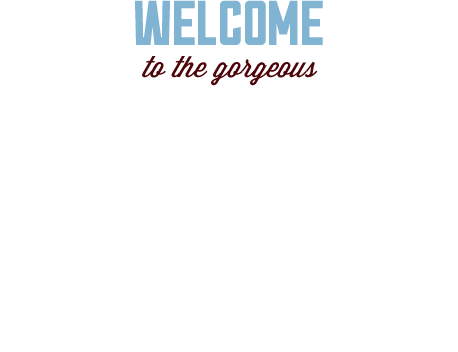
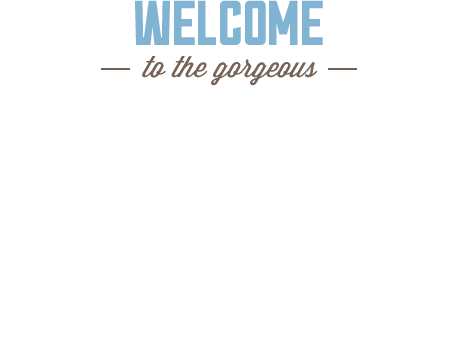
.welcom.css

Changed region(s): [[0.3057, 0.1562, 0.7642, 0.25], [0.214, 0.1875, 0.2751, 0.2188]]

diff --git a/css/style.css b/css/style.css
@@ -1,1 +1,139 @@
-font-family: 'PT Sans', sans-serif;
+body {
+  min-width: 768px;
+  max-width: 1200px;
+  margin: 0;
+  padding: 0;
+
+  font-family: "PT Sans", "Calibri", sans-serif;
+  font-size: 14px;
+  line-height: 26px;
+  text-transform: uppercase;
+  color: #333;
+
+  background-color: #fff;
+}
+
+a {
+  text-decoration: none;
+}
+
+img {
+  max-width: 100%;
+  height: auto;
+}
+
+.visually-hidden,
+input[type="checkbox"].visually-hidden,
+input[type="radio"].visually-hidden {
+  position: absolute;
+
+  width: 1px;
+  height: 1px;
+  margin: -1px;
+  border: 0;
+  padding: 0;
+
+  white-space: nowrap;
+
+  -webkit-clip-path: inset(100%);
+          clip-path: inset(100%);
+  clip: rect(0 0 0 0);
+  overflow: hidden;
+}
+
+.navigation {
+  position: relative;
+
+  display: flex;
+}
+
+.navigation-list {
+  display: flex;
+  flex-wrap: wrap;
+
+  width: 40%;
+  margin: 10px 6%;
+  padding: 0;
+
+  list-style: none;
+}
+
+.navigation-list:first-child {
+  margin-right: auto;
+}
+
+.navigation-list:last-child {
+  margin-left: auto;
+}
+
+.navigation-list li {
+  width: 50%;
+}
+
+.navigation-list:last-child li {
+  text-align: right;
+}
+
+.navigation-list a {
+  font-weight: bold;
+  color: #000;
+}
+
+.logo {
+  position: absolute;
+
+  top: 0;
+  left: 50%;
+
+  transform: translateX(-50%);
+}
+
+.welcome-photo {
+  position: relative;
+  z-index: -1;
+
+  height: 510px;
+  margin: 0;
+  margin-top: 10px;
+  padding: 0;
+
+  background-color: #556571;
+}
+
+.welcome-photo img {
+  position: relative;
+  z-index: -1;
+}
+
+.welcome-photo::before {
+  content: "";
+
+  position: absolute;
+  top: 50%;
+  left: 50%;
+
+  width: 458px;
+  height: 352px;
+
+  background: url(../img/welcom.png) center center no-repeat;
+  transform: translateX(-50%) translateY(-50%);
+}
+
+.welcome-photo::after {
+  content: "";
+
+  position: absolute;
+  bottom: 0;
+  left: 0;
+
+  width: 100%;
+  height: 57px;
+
+  background: url(../img/shape.png) 0 0 no-repeat;
+  background-size: 100%;
+}
+
+.benefits {
+  background-color: #fff;
+}
+

diff --git a/index.html b/index.html
@@ -10,13 +10,13 @@
 
   <body>
     <header>
-      <nav>
-        <ul class="logo-list">
-          <li><a href="index.html" class="logo"><img src="img/logo.png" alt="Sedona" width="138" height="70"></a></li>
-        </ul>
+      <nav class="navigation">
+        <a class="logo" href="index.html"><img src="img/logo.png" alt="Sedona" width="138" height="70"></a>
         <ul class="navigation-list">
           <li><a href="#">Информация</a></li>
           <li><a href="#">Фото и видео</a></li>
+        </ul>
+        <ul class="navigation-list">
           <li><a href="#">Карта штата</a></li>
           <li><a href="hotels.html">Гостиницы</a></li>
         </ul>
@@ -28,7 +28,7 @@
 
       <section class="welcome">
         <h2 class="visually-hidden">Добро пожаловать в Седону</h2>
-        <p><img src="img/background-photo.jpg" alt="Захватывающий вид горного пейзажа в Седоне" width="1200" height="773"></p>
+        <p class="welcome-photo"><img src="img/background-photo.jpg" alt="Захватывающий вид горного пейзажа в Седоне" width="1200" height="773"></p>
         <div class="visually-hidden">
           <p><b>Welcome</b> <i>to the gorgeous</i> <strong>Sedona</strong></p>
           <p><em>«Because the Grand Canyon sucks!»</em></p>
